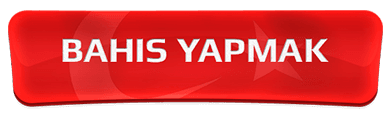
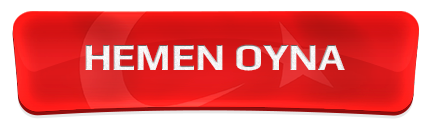
turk

diff --git a/adwise/turkey/turk640-305-2.js b/adwise/turkey/turk640-305-2.js
@@ -4,7 +4,7 @@ var p; // shortcut to reference prototypes
 
 // library properties:
 lib.properties = {
-	width: 642,
+	width: 640,
 	height: 305,
 	fps: 24,
 	color: "#333333",
@@ -44,7 +44,7 @@ p.nominalBounds = new cjs.Rectangle(0,0,295,45);
 (lib.buton = function() {
 	this.initialize(img.buton);
 }).prototype = p = new cjs.Bitmap();
-p.nominalBounds = new cjs.Rectangle(0,0,391,116);
+p.nominalBounds = new cjs.Rectangle(0,0,432,135);
 
 
 (lib.fon = function() {
@@ -167,6 +167,18 @@ p.nominalBounds = new cjs.Rectangle(-10.8,-63.4,21.6,126.9);
 p.nominalBounds = new cjs.Rectangle(-13.2,-72.7,26.5,145.5);
 
 
+(lib.Символ25 = function() {
+	this.initialize();
+
+	// Слой 1
+	this.shape = new cjs.Shape();
[1 lines of base64/hex data omitted]
+
+	this.addChild(this.shape);
+}).prototype = p = new cjs.Container();
+p.nominalBounds = new cjs.Rectangle(-147.3,-23.7,294.8,47.4);
+
+
 (lib.Символ22 = function() {
 	this.initialize();
 
@@ -196,11 +208,11 @@ p.nominalBounds = new cjs.Rectangle(-31,-31,62.1,62.1);
 
 	// Слой 1
 	this.instance = new lib.buton();
-	this.instance.setTransform(-195.5,-58);
+	this.instance.setTransform(-210.8,-50.5,0.967,0.967);
 
 	this.addChild(this.instance);
 }).prototype = p = new cjs.Container();
-p.nominalBounds = new cjs.Rectangle(-195.5,-58,391,116);
+p.nominalBounds = new cjs.Rectangle(-210.8,-50.5,417.6,130.5);
 
 
 (lib.Символ10 = function() {
@@ -372,6 +384,36 @@ p.nominalBounds = new cjs.Rectangle(-19.7,-105.7,39.5,211.5);
 p.nominalBounds = new cjs.Rectangle(-33.3,-84.8,26.5,145.5);
 
 
+(lib.Символ23 = function() {
+	this.initialize();
+
+	// Слой 1
+	this.shape = new cjs.Shape();
[1 lines of base64/hex data omitted]
+	this.shape.setTransform(34.4,-6.2);
+
+	this.shape_1 = new cjs.Shape();
[1 lines of base64/hex data omitted]
+	this.shape_1.setTransform(-109.1,-4.3);
+
+	this.shape_2 = new cjs.Shape();
[1 lines of base64/hex data omitted]
+	this.shape_2.setTransform(-106.5,2.7);
+
+	this.shape_3 = new cjs.Shape();
[1 lines of base64/hex data omitted]
+	this.shape_3.setTransform(34.4,4.6);
+
+	// Слой 2
+	this.instance = new lib.Символ25();
+	this.instance.setTransform(0.4,1.7);
+	this.instance.alpha = 0.809;
+
+	this.addChild(this.instance,this.shape_3,this.shape_2,this.shape_1,this.shape);
+}).prototype = p = new cjs.Container();
+p.nominalBounds = new cjs.Rectangle(-146.9,-22,294.8,47.4);
+
+
 (lib.Символ17 = function(mode,startPosition,loop) {
 	this.initialize(mode,startPosition,loop,{});
 
@@ -393,7 +435,7 @@ p.nominalBounds = new cjs.Rectangle(152.8,163.7,62.1,56);
 
 	this.addChild(this.instance);
 }).prototype = p = new cjs.Container();
-p.nominalBounds = new cjs.Rectangle(-195.5,-58,391,116);
+p.nominalBounds = new cjs.Rectangle(-210.8,-50.5,417.6,130.5);
 
 
 (lib.Символ12 = function(mode,startPosition,loop) {
@@ -541,7 +583,7 @@ p.nominalBounds = new cjs.Rectangle(-123,-196,246,392);
 	this.instance_2.compositeOperation = "lighter";
 	this.instance_2._off = true;
 
-	this.timeline.addTween(cjs.Tween.get(this.instance_2).wait(3).to({_off:false},0).to({scaleY:1,x:-276,y:-32},4,cjs.Ease.get(1)).to({scaleY:0.82,y:-45.7},5,cjs.Ease.get(-1)).to({scaleY:1,y:-32},5,cjs.Ease.get(1)).to({scaleY:0.99,x:-276.1,y:-33,alpha:0.465},2,cjs.Ease.get(-1)).to({scaleY:0.19,x:-287,y:-150.2,alpha:1},20).wait(1));
+	this.timeline.addTween(cjs.Tween.get(this.instance_2).wait(3).to({_off:false},0).to({scaleY:1,x:-276,y:-32},4,cjs.Ease.get(1)).to({scaleY:0.82,y:-45.7},5,cjs.Ease.get(-1)).to({scaleY:1,y:-32},5,cjs.Ease.get(1)).to({scaleY:0.99,x:-276.1,y:-33},2,cjs.Ease.get(-1)).to({scaleY:0.19,x:-287,y:-150.2,alpha:1},20).wait(1));
 
 	// Символ 27
 	this.instance_3 = new lib.Символ27();
@@ -550,7 +592,7 @@ p.nominalBounds = new cjs.Rectangle(-123,-196,246,392);
 	this.instance_3.compositeOperation = "lighter";
 	this.instance_3._off = true;
 
-	this.timeline.addTween(cjs.Tween.get(this.instance_3).wait(2).to({_off:false},0).to({scaleY:1,x:218.8,y:-67.8},5,cjs.Ease.get(1)).to({scaleY:0.82,y:-75},5,cjs.Ease.get(-1)).to({scaleY:1,y:-67.8},5,cjs.Ease.get(1)).to({scaleY:0.99,x:218.7,y:-68.6,alpha:0.465},2,cjs.Ease.get(-1)).to({scaleY:0.19,x:207.8,y:-157.1,alpha:1},20).wait(1));
+	this.timeline.addTween(cjs.Tween.get(this.instance_3).wait(2).to({_off:false},0).to({scaleY:1,x:218.8,y:-67.8},5,cjs.Ease.get(1)).to({scaleY:0.82,y:-75},5,cjs.Ease.get(-1)).to({scaleY:1,y:-67.8},5,cjs.Ease.get(1)).to({scaleY:0.99,x:218.7,y:-68.6},2,cjs.Ease.get(-1)).to({scaleY:0.19,x:207.8,y:-157.1,alpha:1},20).wait(1));
 
 	// Символ 26
 	this.instance_4 = new lib.Символ26();
@@ -652,7 +694,7 @@ p.nominalBounds = new cjs.Rectangle(-250.5,-180.2,501,360.5);
 	this.timeline.addTween(cjs.Tween.get(this.instance_1).wait(2));
 
 }).prototype = p = new cjs.MovieClip();
-p.nominalBounds = new cjs.Rectangle(-195.5,-58,391,116);
+p.nominalBounds = new cjs.Rectangle(-210.8,-50.5,417.6,130.5);
 
 
 (lib.Символ15 = function() {
@@ -664,7 +706,7 @@ p.nominalBounds = new cjs.Rectangle(-195.5,-58,391,116);
 
 	this.addChild(this.instance);
 }).prototype = p = new cjs.Container();
-p.nominalBounds = new cjs.Rectangle(-195.5,-58,391,116);
+p.nominalBounds = new cjs.Rectangle(-210.8,-50.5,417.6,130.5);
 
 
 (lib.Символ6 = function(mode,startPosition,loop) {
@@ -676,7 +718,7 @@ p.nominalBounds = new cjs.Rectangle(-195.5,-58,391,116);
 	this.timeline.addTween(cjs.Tween.get(this.instance).to({y:4.3},12,cjs.Ease.get(-1)).to({y:8.5},12,cjs.Ease.get(1)).to({y:4.1},13,cjs.Ease.get(-1)).to({y:0},12,cjs.Ease.get(1)).wait(1));
 
 }).prototype = p = new cjs.MovieClip();
-p.nominalBounds = new cjs.Rectangle(-195.5,-58,391,116);
+p.nominalBounds = new cjs.Rectangle(-210.8,-50.5,417.6,130.5);
 
 
 (lib.Символ20 = function(mode,startPosition,loop) {
@@ -703,18 +745,23 @@ p.nominalBounds = new cjs.Rectangle(-195.5,-58,391,116);
 	this.timeline.addTween(cjs.Tween.get(this.instance).to({scaleX:0.83,scaleY:0.83},19,cjs.Ease.get(1)).to({scaleX:0.78,scaleY:0.78},20,cjs.Ease.get(-1)).wait(1));
 
 }).prototype = p = new cjs.MovieClip();
-p.nominalBounds = new cjs.Rectangle(-151.5,-44.9,303,89.9);
+p.nominalBounds = new cjs.Rectangle(-163.4,-39.1,323.7,101.2);
 
 
 // stage content:
 
 
 
-(lib.turk640305 = function(mode,startPosition,loop) {
+(lib.turk6403052 = function(mode,startPosition,loop) {
 	this.initialize(mode,startPosition,loop,{});
 
 	// timeline functions:
 	this.frame_0 = function() {
+		var bodyStyle = document.body.style;
+		bodyStyle.margin = 0;
+		bodyStyle.padding = 0;
+		
+		
 		document.addEventListener("mouseover", fl_Clickover.bind(this));
 		
 		function fl_Clickover()
@@ -732,6 +779,12 @@ p.nominalBounds = new cjs.Rectangle(-151.5,-44.9,303,89.9);
 			this.bt.gotoAndPlay(21);
 			this.fut.gotoAndPlay(21);
 		}
+		
+		document.addEventListener("click", fl_ClickToGoToWebPage);
+		
+		function fl_ClickToGoToWebPage() {
+		window.open(clickTAG, "_blank");
+		}
 	}
 
 	// actions tween:
@@ -739,15 +792,21 @@ p.nominalBounds = new cjs.Rectangle(-151.5,-44.9,303,89.9);
 
 	// Символ 6
 	this.bt = new lib.Символ20();
-	this.bt.setTransform(317,256);
+	this.bt.setTransform(317,248);
 
 	this.timeline.addTween(cjs.Tween.get(this.bt).wait(1));
 
-	// Слой 9
-	this.instance = new lib.Символ17();
-	this.instance.setTransform(335,134.5);
+	// Слой 1
+	this.instance = new lib.Символ23();
+	this.instance.setTransform(314.5,203.1,0.946,0.946);
 
 	this.timeline.addTween(cjs.Tween.get(this.instance).wait(1));
+
+	// Слой 9
+	this.instance_1 = new lib.Символ17();
+	this.instance_1.setTransform(335,134.5);
+
+	this.timeline.addTween(cjs.Tween.get(this.instance_1).wait(1));
 
 	// Символ 3
 	this.fut = new lib.Символ19();
@@ -762,7 +821,7 @@ p.nominalBounds = new cjs.Rectangle(-151.5,-44.9,303,89.9);
 	this.timeline.addTween(cjs.Tween.get(this.fon).wait(1));
 
 }).prototype = p = new cjs.MovieClip();
-p.nominalBounds = new cjs.Rectangle(264.6,-10.6,800.6,561.6);
+p.nominalBounds = new cjs.Rectangle(263.6,-10.6,800.6,561.6);
 
 })(lib = lib||{}, images = images||{}, createjs = createjs||{});
 var lib, images, createjs;

diff --git a/adwise/turkey/turk640-305-2.html b/adwise/turkey/turk640-305-2.html
@@ -2,13 +2,13 @@
 <html>
 <head>
 <meta charset="UTF-8">
-<title>turk640-305</title>
+<title>turk640-305-2</title>
 
 <script src="http://code.createjs.com/easeljs-0.7.1.min.js"></script>
 <script src="http://code.createjs.com/tweenjs-0.5.1.min.js"></script>
 <script src="http://code.createjs.com/movieclip-0.7.1.min.js"></script>
 <script src="http://code.createjs.com/preloadjs-0.4.1.min.js"></script>
-<script src="turk640-305.js"></script>
+<script src="turk640-305-2.js"></script>
 
 <script>
 var canvas, stage, exportRoot;
@@ -30,7 +30,7 @@ function handleFileLoad(evt) {
 }
 
 function handleComplete() {
-	exportRoot = new lib.turk640305();
+	exportRoot = new lib.turk6403052();
 
 	stage = new createjs.Stage(canvas);
 	stage.addChild(exportRoot);
@@ -44,6 +44,6 @@ function handleComplete() {
 </head>
 
 <body onload="init();" style="background-color:#D4D4D4">
-	<canvas id="canvas" width="642" height="305" style="background-color:#333333"></canvas>
+	<canvas id="canvas" width="640" height="305" style="background-color:#333333"></canvas>
 </body>
 </html>
